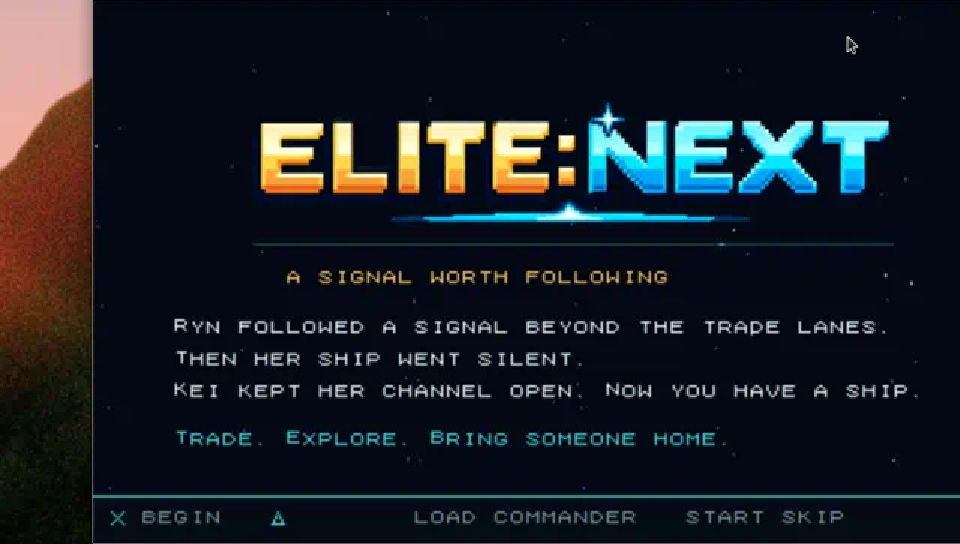
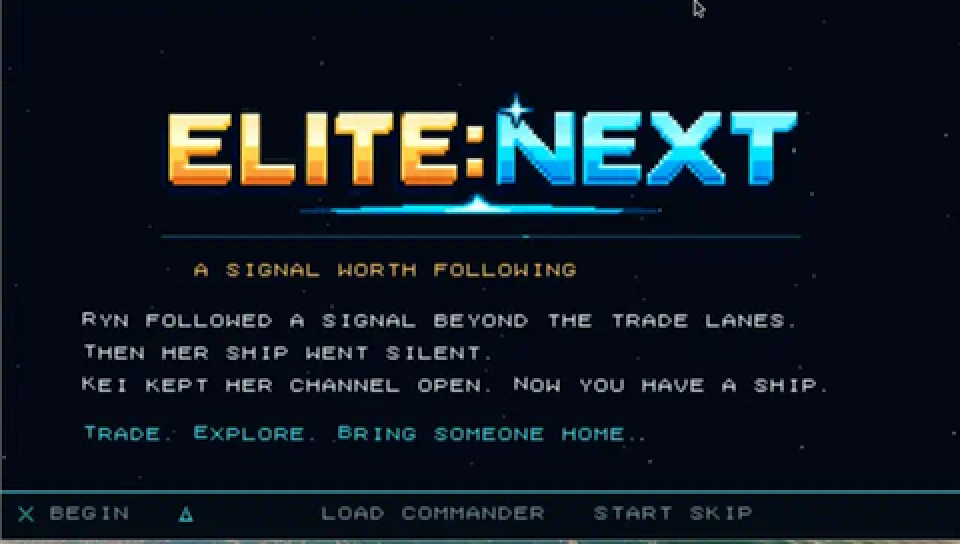
Polish storefront with MacVenture shots and clearer install
Swap in native title + Arrivals/Shop/Canteen/Guild captures, rebuild the
hero/social banners around a Releases CTA, tighten PPSSPP/PSP install
steps, and document the post-merge About/topics/social checklist.

diff --git a/README.md b/README.md
@@ -1,58 +1,76 @@
 <p align="center">
-  <img src="assets/github/readme-hero.png" alt="ELITE: NEXT — a native PSP space game" width="880">
+  <img src="assets/github/readme-hero.png" alt="ELITE: NEXT — native PSP space game" width="920">
+</p>
+
+<p align="center">
+  <a href="https://github.com/roodmilk/elite-next-psp/releases/latest">
+    <img src="https://img.shields.io/github/v/release/roodmilk/elite-next-psp?style=for-the-badge&label=⬇%20Download%20latest&color=00bcd4" alt="Download latest release">
+  </a>
+  &nbsp;
+  <a href="https://github.com/roodmilk/elite-next-psp/releases/latest">
+    <img src="https://img.shields.io/github/downloads/roodmilk/elite-next-psp/total?style=for-the-badge&color=ff9800" alt="Total downloads">
+  </a>
+  &nbsp;
+  <img src="https://img.shields.io/badge/Play_on-PPSSPP%20or%20PSP-1a237e?style=for-the-badge" alt="Play on PPSSPP or PSP">
 </p>
 
 <p align="center">
   <strong>Trade. Explore. Bring someone home.</strong><br>
-  A native PSP homebrew space game inspired by Elite-A — 256 systems, missions, planetary landings,<br>
-  station decks, custom radio, and an original campaign with Kei and Ryn.
+  Native PSP homebrew inspired by Elite-A — a 256-system galaxy, flight &amp; combat,<br>
+  MacVenture-style station decks, planetary landings, custom radio, and an original campaign.
 </p>
 
 <p align="center">
-  <a href="https://github.com/roodmilk/elite-next-psp/releases/latest"><img src="https://img.shields.io/github/v/release/roodmilk/elite-next-psp?style=for-the-badge&label=Download&color=00bcd4" alt="Latest release"></a>
-  <a href="https://github.com/roodmilk/elite-next-psp/releases/latest"><img src="https://img.shields.io/github/downloads/roodmilk/elite-next-psp/total?style=for-the-badge&color=ff9800" alt="Downloads"></a>
-  <img src="https://img.shields.io/badge/Platform-PSP%20%2F%20PPSSPP-1a237e?style=for-the-badge" alt="Platform">
-  <img src="https://img.shields.io/badge/License-See%20credits-37474f?style=for-the-badge" alt="License">
-</p>
-
-<p align="center">
-  <a href="https://github.com/roodmilk/elite-next-psp/releases/latest"><strong>⬇ Download the latest build</strong></a>
+  <a href="https://github.com/roodmilk/elite-next-psp/releases/latest"><strong>⬇ Get the game (Releases)</strong></a>
   ·
-  <a href="#play-in-5-minutes">Play in 5 minutes</a>
+  <a href="#install">Install</a>
   ·
-  <a href="#what-you-get">What you get</a>
+  <a href="#screenshots">Screenshots</a>
   ·
   <a href="#controls">Controls</a>
 </p>
 
 ---
 
-## Play in 5 minutes
+## Download
 
-### 1. Grab the release
+Go to **[Releases → Latest](https://github.com/roodmilk/elite-next-psp/releases/latest)** and grab:
 
-From the **[latest Release](https://github.com/roodmilk/elite-next-psp/releases/latest)** download either:
-
-| File | Use this when |
+| File | Take this if… |
 | --- | --- |
-| **`ELITE-NEXT-PSP-v*.zip`** | You want the full game folder (recommended) |
-| **`EBOOT.PBP`** | You already have a game folder and only need to replace the executable |
+| **`ELITE-NEXT-PSP-v*.zip`** | You are installing for the first time (**recommended**) |
+| **`EBOOT.PBP`** | You already have the folder and only need to update the executable |
 
-### 2. Install
+That is the playable build. You do not need to compile anything to play.
 
-**PPSSPP (PC / phone / tablet)**  
-1. Install [PPSSPP](https://www.ppsspp.org/).  
-2. Unzip the release so you have a folder containing `EBOOT.PBP`.  
-3. In PPSSPP: **Games → Load** → open that `EBOOT.PBP`.  
-4. Prefer a **480×272** (or integer multiple) window so the UI stays sharp.
+---
 
-**Real PSP**  
-1. Copy the unzipped folder to `ms0:/PSP/GAME/ELITE-NEXT/` (Memory Stick).  
-2. Launch **ELITE: NEXT** from the PSP Game menu (homebrew-capable firmware required).
+## Install
 
-### 3. Optional: your music
+<a id="install"></a>
 
-Drop your own MP3s into the station folders next to the EBOOT — the game shuffles them on startup:
+### PPSSPP (PC, phone, tablet)
+
+1. Install **[PPSSPP](https://www.ppsspp.org/)**.
+2. Unzip the release so the folder contains `EBOOT.PBP`.
+3. In PPSSPP: **Games → Load file…** → open `EBOOT.PBP`.
+4. Use **480×272** or an integer scale (2× / 3×) so the UI stays sharp.
+
+### Real PSP
+
+1. Unzip the release.
+2. Copy the whole folder to the Memory Stick as:
+
+   ```text
+   ms0:/PSP/GAME/ELITE-NEXT/
+   ```
+
+   (`EBOOT.PBP` must sit directly inside that folder.)
+3. Launch **ELITE: NEXT** from the Game menu (homebrew-capable firmware).
+
+### Optional music
+
+Drop your own MP3s into the station folders next to the EBOOT. The game shuffles them on startup:
 
 ```text
 music/
@@ -63,35 +81,49 @@ music/
   Far Horizons/
 ```
 
-No tracks ship in the zip; folders are empty on purpose so you can bring music you have rights to.
+No tracks are bundled — bring music you have rights to. Restart after adding or removing files.
+
+---
+
+## Screenshots
+
+<a id="screenshots"></a>
+
+<p align="center">
+  <img src="assets/github/hero-intro.png" alt="Title — A signal worth following" width="720">
+</p>
+
+<p align="center">
+  <img src="assets/github/shot-flight.png" alt="Cockpit approach to Lave System Hub" width="440">
+  &nbsp;
+  <img src="assets/github/shot-station.png" alt="Station Arrivals — MacVenture deck with Venn" width="440">
+</p>
+
+<p align="center">
+  <img src="assets/github/shot-station-shop.png" alt="Station Chandlery / shop" width="440">
+  &nbsp;
+  <img src="assets/github/shot-station-canteen.png" alt="Station Canteen" width="440">
+</p>
+
+<p align="center">
+  <img src="assets/github/shot-station-guild.png" alt="Station Guild" width="440">
+  &nbsp;
+  <img src="assets/github/shot-story.png" alt="Open Channel campaign dialogue with Kei" width="440">
+</p>
 
 ---
 
 ## What you get
 
-<p align="center">
-  <img src="assets/github/hero-intro.png" alt="Title screen — A signal worth following" width="720">
-</p>
-
 | | |
 | --- | --- |
-| **Open galaxy** | 256 seeded systems with hubs, relays, markets, danger ratings and warp routes |
-| **The Open Channel** | Original Kei & Ryn campaign — travel, survey, salvage, conflict, lasting choices |
-| **Flight & combat** | Targeting computer, missiles, police, freighters, mining belts |
-| **Worlds & decks** | Planetary approach, EVA walks, first-person station crawl with shops and NPCs |
+| **Open galaxy** | 256 seeded systems — hubs, relays, markets, danger, multi-jump routes |
+| **The Open Channel** | Original Kei &amp; Ryn campaign — travel, survey, salvage, conflict, lasting choices |
+| **Flight &amp; combat** | Targeting computer, missiles, police, freighters, mining belts |
+| **Station decks** | MacVenture-style rooms (Arrivals, Shop, Canteen, Guild…) with LOOK / SPEAK / GO |
+| **Worlds** | Planetary approach, EVA walks, landing pads |
 | **Commander life** | Missions, GalNet, SpaceBook, outfitting, wanted levels, save/load |
 | **Radio** | Five custom stations + procedural fallback when a folder is empty |
-
-<p align="center">
-  <img src="assets/github/shot-flight.png" alt="Cockpit approach to Lave System Hub" width="440">
-  &nbsp;
-  <img src="assets/github/shot-station.png" alt="Station crawl hub with NPCs" width="440">
-</p>
-<p align="center">
-  <img src="assets/github/shot-story.png" alt="Campaign dialogue with Kei" width="440">
-  &nbsp;
-  <img src="assets/github/shot-galnet.png" alt="GalNet wanted board" width="440">
-</p>
 
 ---
 
@@ -100,24 +132,22 @@ No tracks ship in the zip; folders are empty on purpose so you can bring music y
 | Input | Action |
 | --- | --- |
 | **Nub / D-pad** | Steer |
-| **L / R** | Throttle · **double-tap R** to boost |
+| **L / R** | Throttle · **double-tap R** boost |
 | **L + Left/Right** | Roll |
-| **Cross (X)** | Fire laser · confirm |
-| **Square** | Targeting computer · hold + D-pad to browse contacts |
-| **Circle** | Planet approach / land / walk · cancel |
-| **Triangle** | Comms / OK speech · hold for quick menu |
+| **Cross (X)** | Fire / confirm / act |
+| **Square** | Targeting computer · hold + D-pad browse contacts |
+| **Circle** | Planet approach / land / walk · cancel / deck |
+| **Triangle** | Comms / OK · hold for quick menu · board ship from station |
 | **Select** | Command deck |
 | **Start** | Pause |
 
 Galaxy Map: **Triangle** toggles the full 256-system overview · **L/R** zoom · **Cross** plots a multi-jump route.
 
-More detail lives in [`CLAUDE-HANDOFF.md`](CLAUDE-HANDOFF.md) and [`docs/UI-SPEC.md`](docs/UI-SPEC.md).
-
 ---
 
 ## Status
 
-ELITE: NEXT is an **active homebrew** build. Recent tagged packages are published automatically on GitHub Releases. Emulator regression suites are run during development; physical PSP testing is still recommended for audio suspend/resume and Memory Stick behaviour.
+Active homebrew. Playable packages publish on every version tag under [Releases](https://github.com/roodmilk/elite-next-psp/releases). Emulator regressions run in development; physical PSP testing is still recommended for audio suspend/resume and Memory Stick behaviour.
 
 ---
 
@@ -128,13 +158,7 @@ ELITE: NEXT is an **active homebrew** build. Recent tagged packages are publishe
 ./smoke-test.ps1
 ```
 
-Default Windows toolchain layout is documented in [`CLAUDE-HANDOFF.md`](CLAUDE-HANDOFF.md). Regenerating ship geometry (optional):
-
-```bash
-node tools/extract-ships.mjs
-```
-
-Contributor workflow: [`AGENTS.md`](AGENTS.md).
+Contributor workflow: [`AGENTS.md`](AGENTS.md) · handoff: [`CLAUDE-HANDOFF.md`](CLAUDE-HANDOFF.md).
 
 ---
 
@@ -142,12 +166,13 @@ Contributor workflow: [`AGENTS.md`](AGENTS.md).
 
 | Doc | What it is |
 | --- | --- |
+| [`docs/GITHUB-STOREFRONT.md`](docs/GITHUB-STOREFRONT.md) | Repo face / post-merge checklist |
 | [`CLAUDE-HANDOFF.md`](CLAUDE-HANDOFF.md) | Current implementation state |
-| [`docs/DESIGN-BIBLE-2.0.md`](docs/DESIGN-BIBLE-2.0.md) | Product & technical direction |
-| [`docs/OPEN-CHANNEL-CAMPAIGN.md`](docs/OPEN-CHANNEL-CAMPAIGN.md) | 24-chapter campaign bible |
+| [`docs/DESIGN-BIBLE-2.0.md`](docs/DESIGN-BIBLE-2.0.md) | Product &amp; technical direction |
+| [`docs/OPEN-CHANNEL-CAMPAIGN.md`](docs/OPEN-CHANNEL-CAMPAIGN.md) | Campaign bible |
 | [`docs/FEATURE-MAP.md`](docs/FEATURE-MAP.md) | Feature inventory |
 | [`CHANGELOG.md`](CHANGELOG.md) | Notable release notes |
-| [`docs/DEVELOPMENT-HISTORY.md`](docs/DEVELOPMENT-HISTORY.md) | Full version-by-version development log |
+| [`docs/DEVELOPMENT-HISTORY.md`](docs/DEVELOPMENT-HISTORY.md) | Full version-by-version log |
 
 ---
 
@@ -158,6 +183,7 @@ Original *Elite*: Ian Bell and David Braben (Acornsoft, 1984). Elite-A additions
 Built with [PSPSDK](https://github.com/pspdev/pspsdk). Play with [PPSSPP](https://github.com/hrydgard/ppsspp).
 
 <p align="center">
-  <img src="assets/github/logo.png" alt="ELITE: NEXT" width="320"><br>
-  <em>A signal worth following.</em>
+  <img src="assets/github/logo.png" alt="ELITE: NEXT" width="300"><br>
+  <em>A signal worth following.</em><br>
+  <a href="https://github.com/roodmilk/elite-next-psp/releases/latest"><strong>⬇ Download latest</strong></a>
 </p>

diff --git a/docs/GITHUB-STOREFRONT.md b/docs/GITHUB-STOREFRONT.md
@@ -1,0 +1,68 @@
+# GitHub storefront
+
+The root `README.md` is the **player-facing download page**. Keep it download-first: hero, release CTA, install steps, screenshots, short feature list. Do not dump changelogs there — use `CHANGELOG.md` and `docs/DEVELOPMENT-HISTORY.md`.
+
+## Assets
+
+Images live in `assets/github/`:
+
+| File | Role |
+| --- | --- |
+| `readme-hero.png` | README header composite |
+| `social-banner.png` | 1280×640 Open Graph / social preview |
+| `logo.png` | Pixel logo |
+| `hero-intro.png` | Native title screen (2×) |
+| `shot-flight.png` | Cockpit / docking |
+| `shot-station*.png` | MacVenture station decks (Arrivals, Shop, Canteen, Guild) |
+| `shot-story.png` | Campaign dialogue |
+| `shot-galnet.png` | GalNet board |
+
+Prefer **native 480×272** captures when available (see project store `media/macventure/` and `media/screenshots/`).
+
+## Human checklist after merge
+
+Agent tokens cannot edit repo metadata (GitHub API 403). Someone with admin/write on the repo must click:
+
+### 1. Homepage URL
+
+**Settings → General → Website**
+
+```text
+https://github.com/roodmilk/elite-next-psp/releases/latest
+```
+
+### 2. Topics
+
+**Settings → General → Topics** (or the gear on the repo About panel):
+
+```text
+psp
+homebrew
+game
+elite
+retro
+space-sim
+ppsspp
+```
+
+### 3. Social preview
+
+**Settings → General → Social preview → Edit**
+
+Upload:
+
+```text
+assets/github/social-banner.png
+```
+
+### 4. Verify
+
+- [ ] Repo home shows the new README (hero + Download badge)
+- [ ] “Download latest” opens the newest Release
+- [ ] ZIP and `EBOOT.PBP` are attached to that Release
+- [ ] Shared link previews use the social banner (may take a few minutes to refresh)
+- [ ] About panel shows homepage + topics
+
+## Release notes
+
+Tagged releases (`v*`) run `.github/workflows/release.yml`, which attaches the zip + EBOOT and opens with play/install instructions before the generated changelog.

diff --git a/CLAUDE-HANDOFF.md b/CLAUDE-HANDOFF.md
@@ -6,7 +6,7 @@ Prepared 22 September 2026. Current build: **2.5.2**.
 
 This is a native PSP homebrew game inspired by Elite-A and the wider Elite lineage. It is no longer a literal port: it has a new flight/world simulation, 256 seeded systems, modern PSP interface, multi-body systems, factions, missions, planetary flight/EVA, custom radio folders and an original Kei/Ryn campaign called **The Open Channel**.
 
-The root `README.md` is the **player-facing GitHub storefront** (download CTA, screenshots, short install). Keep it that way. Long version history lives in `docs/DEVELOPMENT-HISTORY.md`. Tagged builds ship from [Releases](https://github.com/roodmilk/elite-next-psp/releases/latest). Social/README images live in `assets/github/`.
+The root `README.md` is the **player-facing GitHub storefront** (download CTA, screenshots, short install). Keep it that way. Long version history lives in `docs/DEVELOPMENT-HISTORY.md`. Tagged builds ship from [Releases](https://github.com/roodmilk/elite-next-psp/releases/latest). Social/README images live in `assets/github/`. Post-merge About/topics/social checklist: `docs/GITHUB-STOREFRONT.md`.
 
 Read these documents in this order:
 
